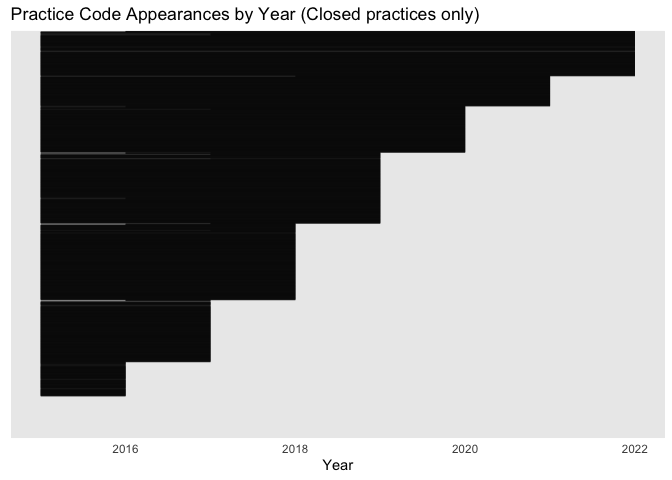
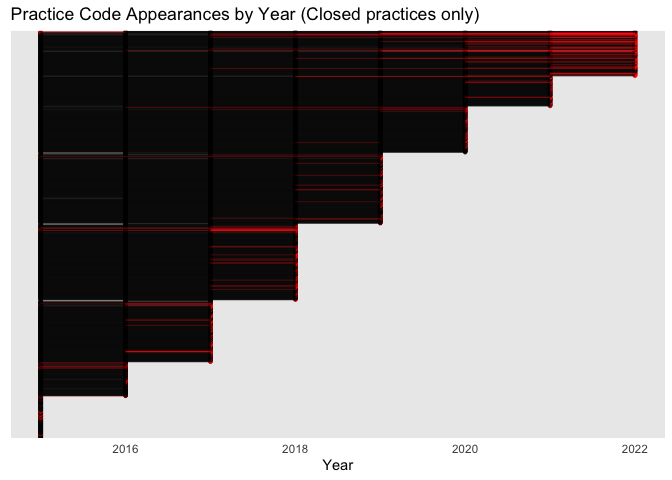
update closures

Changed region(s): [[0.0312, 0.0625, 0.5938, 0.9062], [0.3125, 0.0625, 0.9688, 0.3125], [0.1562, 0.3125, 0.1875, 0.3438]]

diff --git a/analysis/closures/README.md b/analysis/closures/README.md
@@ -173,8 +173,16 @@ plot <- df %>%
 # Convert Practice.Code to a factor with levels in the desired order
 plot$Practice.Code <- factor(plot$Practice.Code, levels = unique(plot$Practice.Code))
 
-ggplot(plot, aes(x = Year, y = Practice.Code, group = Practice.Code)) +
-  # geom_point(alpha = 0.5, size = 1) +
+# Create the color column based on conditions
+plot$color <- with(plot, ifelse(Number.of.Registered.Patients..Last.Known.Figure. <= 0 |
+  Total.NHS.Payments.to.General.Practice <= 0,
+"red",
+"black"
+))
+
+# Create the plot
+ggplot(plot, aes(x = Year, y = Practice.Code, group = Practice.Code, color = color)) +
+  geom_point(alpha = 0.5, size = 1) +
   geom_line(alpha = 0.5, linewidth = 0.5) + # Adjust alpha for transparency if needed
   labs(
     x = "Year", y = NULL,
@@ -184,10 +192,38 @@ ggplot(plot, aes(x = Year, y = Practice.Code, group = Practice.Code)) +
   theme(
     axis.text.y = element_blank(),
     axis.ticks.y = element_blank()
-  )
+  ) +
+  scale_color_identity()
 ```
 
 ![](README_files/figure-gfm/unnamed-chunk-2-1.png)<!-- -->
+
+``` r
+plot %>%
+  group_by(last_year) %>%
+  summarise(n = n_distinct(Practice.Code))
+```
+
+    ## # A tibble: 8 × 2
+    ##   last_year     n
+    ##       <int> <int>
+    ## 1      2015   145
+    ## 2      2016   118
+    ## 3      2017   214
+    ## 4      2018   264
+    ## 5      2019   245
+    ## 6      2020   160
+    ## 7      2021   104
+    ## 8      2022   155
+
+716 practices have reported 0 registered patients or 0 total payments in
+at least one year.
+
+``` r
+one_year_practices <- practice_years[practice_years$unique_years == 1, ]$Practice.Code %>% unique()
+
+plot$color <- with(plot, ifelse(Practice.Code %in% one_year_practices, "red", color))
+```
 
 # How many practices in each year stopped reporting by 2023?
 
